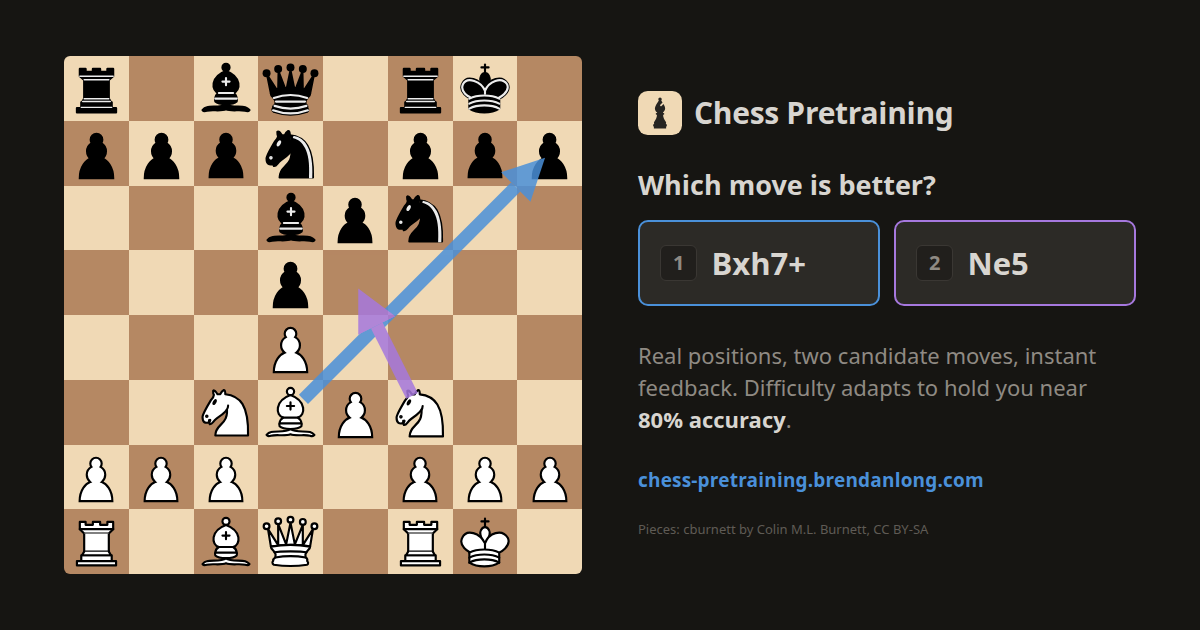
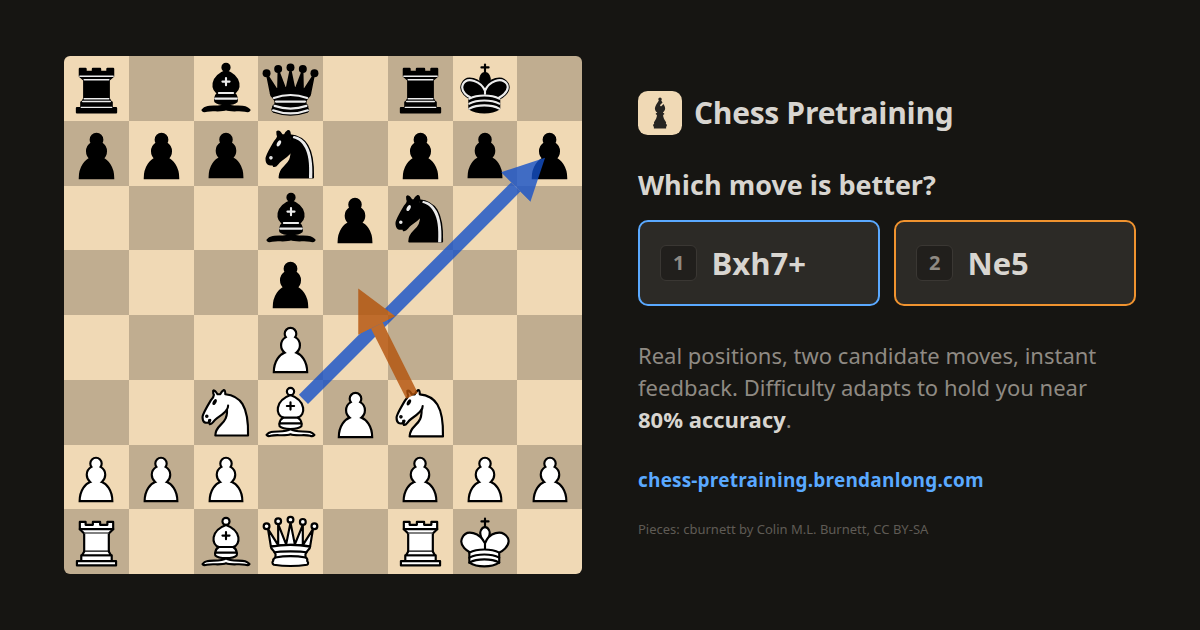
Redraw the social card, and stop it keeping its own palette
The card is an advertisement for the app, and main's copy was drawn with
blue/purple buttons and arrows the app no longer uses. It had a hand-kept
duplicate of :root to drift from, which is the same failure this branch
just fixed between app.js and the stylesheet, so fix it the same way: the
mock declares only what it owns and the generator injects the app's :root
before screenshotting.

Two things fell out of looking at the render. The mock drew its arrows in
the panel variants of the two colours, which are picked to sit on a dark
panel and wash out on a cream board — they are the board variants now,
at the opacity the app draws them with. And its dark square was #b58863,
while chessground lays 20% black over the light square and composites to
#c0ad90; the card was showing a board a visitor never sees, and the
darker square was also the reason the orange arrow read weakly.

Regeneration is byte-identical run to run, and re-running before this
change reproduced main's committed card exactly, so the diff here is this
change rather than a font or Chromium difference. The icons are pure
geometry and are untouched.

diff --git a/scripts/social-preview.html b/scripts/social-preview.html
@@ -15,17 +15,15 @@
 <title>Chess Pretraining — social preview</title>
 <link rel="stylesheet" href="../web/vendor/chessground.cburnett.css">
 <style>
+  /* Every --var below this line comes from web/style.css, injected by
+     generate_assets.py — the card advertises the app, so it can't be holding
+     its own copy of colours the app has since changed. Opening this file
+     directly renders it unstyled; run the generator. */
+  /* The board, which the app doesn't state as colors — chessground lays 20%
+     black over the light square, so this is what it composites to on screen. */
   :root {
-    --bg: #161512;
-    --panel: #211f1c;
-    --card: #2c2a26;
-    --line: #3a3733;
-    --text: #d8d5d0;
-    --muted: #8f8a83;
-    --accent-1: #4a90d9;
-    --accent-2: #a678de;
     --light: #f0d9b5;
-    --dark: #b58863;
+    --dark: #c0ad90;
   }
 
   * { box-sizing: border-box; }
@@ -66,14 +64,20 @@
     background-repeat: no-repeat;
     background-position: center;
   }
-  /* Candidate arrows, in the same two colors as the buttons. */
+  /* Candidate arrows: the board variants of the two button colors, at the
+     opacity the app draws them with. SVG presentation attributes can't hold a
+     var(), so the colors are applied here rather than on the elements. */
   #arrows {
     position: absolute;
     inset: 0;
     width: 100%;
     height: 100%;
-    opacity: 0.85;
+    opacity: 0.8;
   }
+  .a1 { stroke: var(--arrow-1); }
+  .a2 { stroke: var(--arrow-2); }
+  .a1-head { fill: var(--arrow-1); }
+  .a2-head { fill: var(--arrow-2); }
 
   /* --- panel ------------------------------------------------------------ */
 
@@ -231,18 +235,18 @@
     <defs>
       <marker id="head-1" orient="auto" markerWidth="3.2" markerHeight="3.2"
               refX="0" refY="1.6">
-        <path d="M0,0 V3.2 L3.2,1.6 Z" fill="#4a90d9"></path>
+        <path class="a1-head" d="M0,0 V3.2 L3.2,1.6 Z"></path>
       </marker>
       <marker id="head-2" orient="auto" markerWidth="3.2" markerHeight="3.2"
               refX="0" refY="1.6">
-        <path d="M0,0 V3.2 L3.2,1.6 Z" fill="#a678de"></path>
+        <path class="a2-head" d="M0,0 V3.2 L3.2,1.6 Z"></path>
       </marker>
     </defs>
     <!-- Bd3xh7 -->
-    <line x1="3.698" y1="5.302" x2="6.977" y2="2.023" stroke="#4a90d9"
+    <line class="a1" x1="3.698" y1="5.302" x2="6.977" y2="2.023"
           stroke-width="0.2" marker-end="url(#head-1)"></line>
     <!-- Nf3-e5 -->
-    <line x1="5.375" y1="5.250" x2="4.831" y2="4.162" stroke="#a678de"
+    <line class="a2" x1="5.375" y1="5.250" x2="4.831" y2="4.162"
           stroke-width="0.2" marker-end="url(#head-2)"></line>
   </svg>
 </div>

diff --git a/scripts/generate_assets.py b/scripts/generate_assets.py
@@ -18,6 +18,7 @@ bump can change rasterization. Neither is worth pinning a font file for; just
 don't be surprised, and don't commit a card you only meant to look at.
 """
 
+import re
 import struct
 from base64 import b64encode
 from pathlib import Path
@@ -26,6 +27,19 @@ from playwright.sync_api import sync_playwright
 
 ROOT = Path(__file__).resolve().parent.parent
 WEB = ROOT / "web"
+
+
+def app_palette() -> str:
+    """The app's own `:root` block, to render the card with.
+
+    The card is an advertisement for the app, so it has to be showing the
+    app's current colors rather than a copy taken whenever it was last drawn.
+    """
+    root = re.search(r":root\s*\{.*?\}", (WEB / "style.css").read_text(), re.S)
+    if root is None:
+        raise SystemExit("no :root block in web/style.css")
+    return root.group(0)
+
 
 # A light square with a dark piece on it. Rendered at 16px this beat the
 # inverse and beat a colored tile: it is the highest-contrast pairing, and it
@@ -131,6 +145,8 @@ def main() -> None:
         # favicon just written) resolve against its own directory.
         page.set_viewport_size({"width": 1200, "height": 630})
         page.goto((ROOT / "scripts" / "social-preview.html").as_uri())
+        # Appended to <head>, so it outranks the mock's own :root on order.
+        page.add_style_tag(content=app_palette())
         page.screenshot(path=WEB / "social-preview.png")
         written.append(WEB / "social-preview.png")
 

diff --git a/DESIGN.md b/DESIGN.md
@@ -139,9 +139,12 @@ drawer's About row.
 The icons and the social-card image are committed files in `web/`, generated
 by `scripts/generate_assets.py` screenshotting Chromium — so the art has a
 source that can be edited and re-run, and serving it stays a static file
-read. Every page carries its own copy of the card metadata, since there is
-no template to share one; a test globs `web/*.html` and holds each copy
-against the page it sits on, so a new page can't ship without it.
+read. The card mock declares no colours of its own: the generator injects
+the app's `:root`, because a card advertising the app shouldn't be showing
+a palette the app has since moved off. Every page carries its own copy of
+the card metadata, since there is no template to share one; a test globs
+`web/*.html` and holds each copy against the page it sits on, so a new page
+can't ship without it.
 
 ## Storage
 
